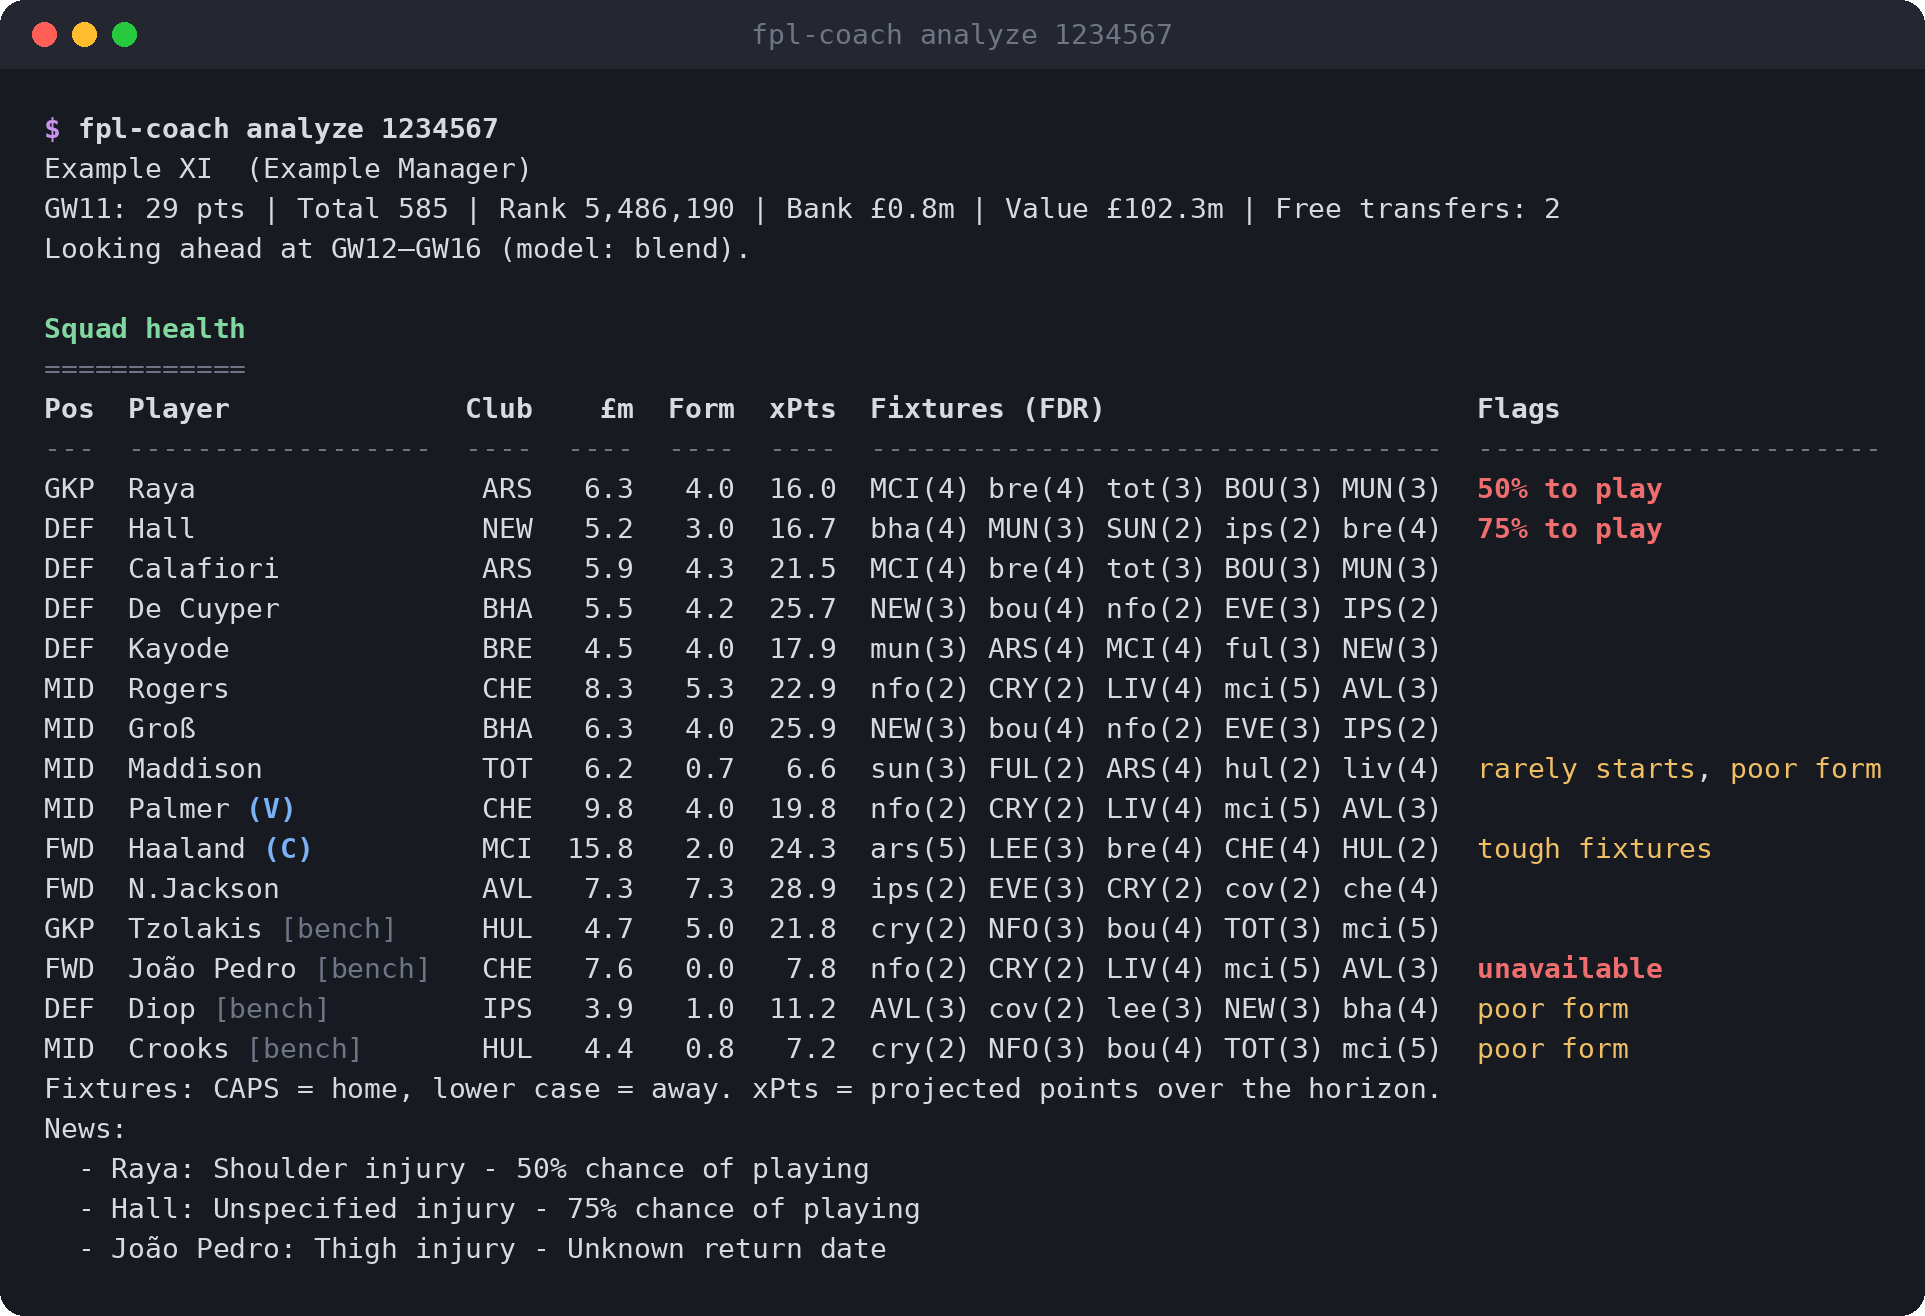
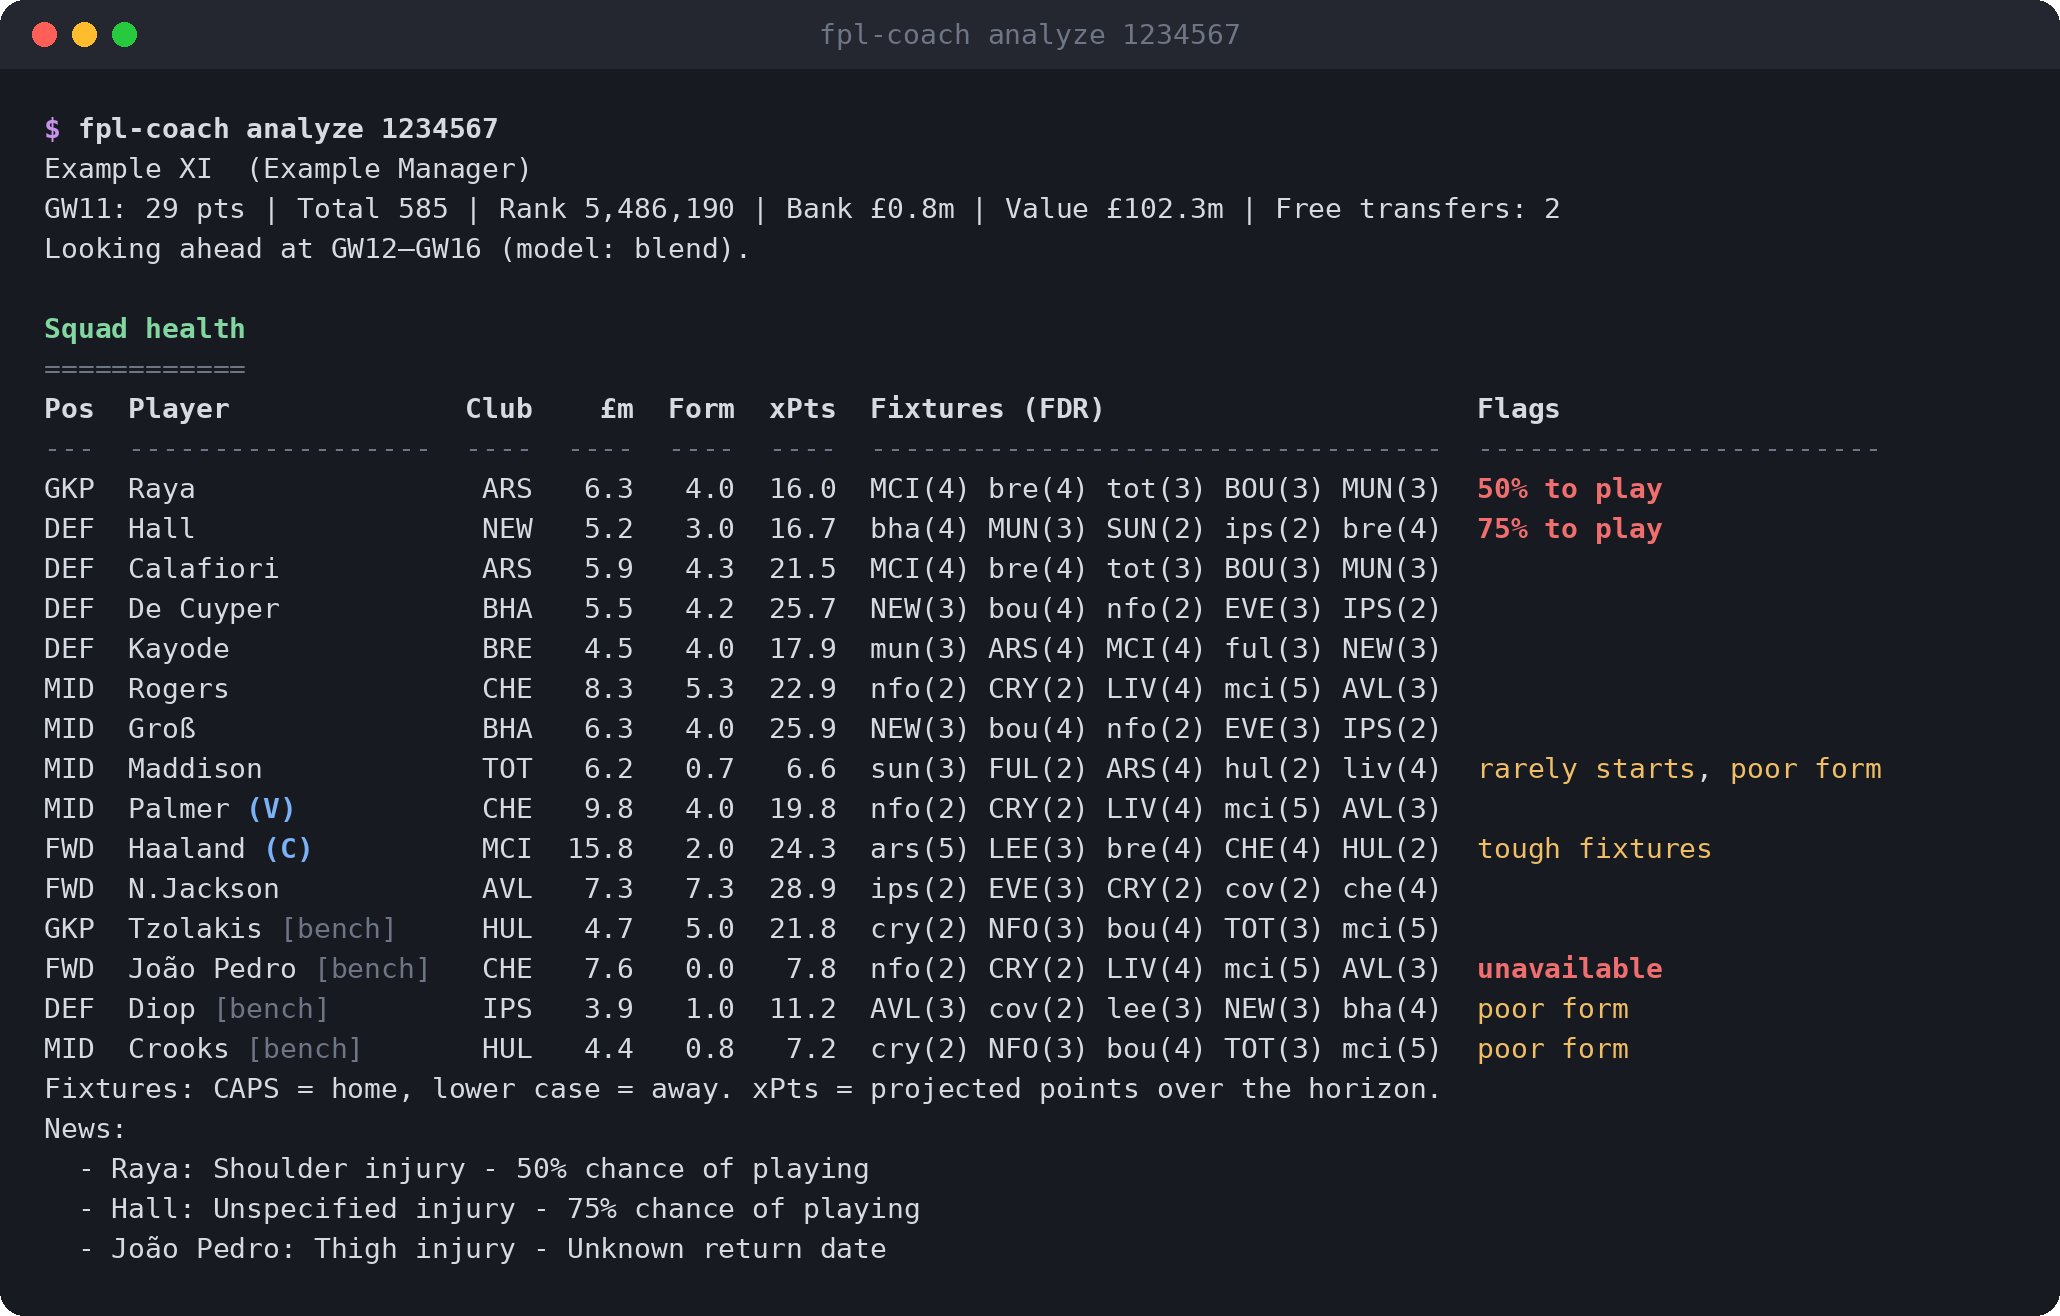
Fix CI and README screenshots
- CI: Python 3.9 is no longer available on GitHub's Ubuntu runners; test 3.10/3.12/3.13,
  don't cancel other versions when one fails, update checkout/setup-python actions.
- Require Python 3.10+.
- Re-render the lineup/transfers and chips/review screenshots (they were blank) at the
  same width as the squad screenshot so they scale consistently.

Claude-Session: https://claude.ai/code/session_01SiG1ecYqBNzy9Rvjg1Wbfu

diff --git a/docs/render_terminal.py b/docs/render_terminal.py
@@ -62,14 +62,14 @@ def segments(line: str, heading: bool, header_row: bool):
     return out
 
 
-def render(text: str, path: str, title: str, scale: int = 2, size: int = 14) -> None:
+def render(text: str, path: str, title: str, scale: int = 2, size: int = 14, min_cols: int = 0) -> None:
     lines = text.rstrip("\n").split("\n")
     font = ImageFont.truetype(FONT, size * scale)
     bold = ImageFont.truetype(FONT_BOLD, size * scale)
     cw = font.getlength("M")
     lh = int(size * scale * 1.45)
     pad, bar = 22 * scale, 34 * scale
-    cols = max(len(l) for l in lines + [title])
+    cols = max([len(l) for l in lines + [title]] + [min_cols])
     w = int(cols * cw + 2 * pad)
     h = bar + pad + (len(lines) + 1) * lh + pad
 
@@ -107,5 +107,6 @@ if __name__ == "__main__":
     ap = argparse.ArgumentParser()
     ap.add_argument("out")
     ap.add_argument("--title", default="fpl-coach analyze 1234567")
+    ap.add_argument("--cols", type=int, default=0, help="Minimum width in characters (keeps images the same scale)")
     a = ap.parse_args()
-    render(sys.stdin.read(), a.out, a.title)
+    render(sys.stdin.read(), a.out, a.title, min_cols=a.cols)

diff --git a/README.md b/README.md
@@ -4,7 +4,7 @@
 
 <p align="center">
   <a href="https://github.com/davidchands/fpl-coach/actions/workflows/tests.yml"><img src="https://github.com/davidchands/fpl-coach/actions/workflows/tests.yml/badge.svg" alt="tests"></a>
-  <img src="https://img.shields.io/badge/python-3.9%2B-3776ab" alt="Python 3.9+">
+  <img src="https://img.shields.io/badge/python-3.10%2B-3776ab" alt="Python 3.10+">
   <img src="https://img.shields.io/badge/dependencies-none-brightgreen" alt="no dependencies">
   <a href="LICENSE"><img src="https://img.shields.io/badge/license-MIT-blue" alt="MIT license"></a>
 </p>
@@ -52,7 +52,7 @@ Which chips you still have and when they expire, upcoming double and blank gamew
 
 ## Quick start
 
-**1. Install** (Python 3.9 or newer, nothing else needed):
+**1. Install** (Python 3.10 or newer, nothing else needed):
 
 ```bash
 pip install git+https://github.com/davidchands/fpl-coach.git
